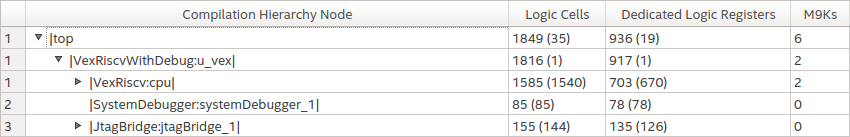
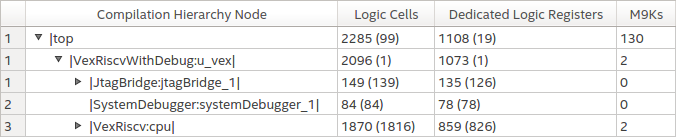
Minor edits.

diff --git a/_drafts/2021-03-06-VexRiscv-and-OpenOCD.md b/_drafts/2021-03-06-VexRiscv-and-OpenOCD.md
@@ -227,7 +227,8 @@ future blog posts... The remainder of this article will deal with the generic op
 # Simulating the Design
 
 A testbench is always helpful to simulate before going to hardware. So for completeness, I've included one here as well.
-While not self-checking, it was useful in tracking down some issue with CPU trap handlers.
+While not self-checking, it was very useful in tracking down [a bug](https://github.com/SpinalHDL/VexRiscv/issues/176) 
+in the VexRiscv DebugPlugin that has since been fixed.
 
 In the `./tb` directory, just type `make`:
 
@@ -253,74 +254,77 @@ as you can see, the leds are indeed toggling in sequence.
 
 # Building the Design for FPGA
 
-For this project, I built an FPGA image for 4 different FPGA boards:
+For this project, I primarily used the Arrow DECA FPGA board. At $37, it's one of the best deals in town!
+Check out my review of this board [here](/2021/04/23/Arrow-DECA-FPGA-board.html).
+
+In addition to the Arrow DECA, I also have project files for 3 other boards:
 
 * the very old, barebones, but still useful, EP2C5T144 board with an Intel Cyclone II EP2C5 FPGA
 * the official Intel Max 10 Development board with a large Max10 10M50 FPGA
-* the featureful Arrow DECA board, with the same Max10 10M50 FPGA
 * the Colorlight i5 with a Lattice ECP5-25 FPGA
 
 You can find the configuration files for each of these boards [here XXXX](XXXX).
 
-As I write this, the Arrow DECA board is priced at $37. An amazing deal, but probably an end-of-life
-fire sale. For hobby purposes, there's no difference between brand new or end-of-life: it's the features
-that counts!
-
 The example design has the following external IOs:
 
 * `clk`: an external clock input of preferably 50MHz. The design doesn't use any PLL to create a different clock.
-* `led0`, `led1`, `led2: the CPU will toggle these LEDs in sequence. 
+* `led0`, `led1`, `led2`: the CPU will toggle these LEDs in sequence. 
 * `button`: when pressed, the LEDs toggling sequence doubles in speed
 * `jtag_tck`, `jtag_tms`, `jtag_tdi`, `jtag_tdo`: the generic JTAG interface
 
-For all 4 boards, the IOs have been assigned as needed. All that's left is to compile the design to 
-a bitstream, but I've also provided ready-made bitstreams.
+In addition to the project files, I've also provided ready-made bitstream so you can try things out right away.
 
 # Debug Logic Resource Cost
 
 Adding debug logic is not free, but the cost is very reasonable.
 
-On the Intel Max 10 FPGA, resource usage for the complete design with JTAG debug enabled is 1849 logic cells and 936 flip-flops.
+On the Intel Max 10 FPGA, resource usage for the complete design with JTAG debug enabled is 2285 logic cells and 1108 flip-flops.
 
 ![Quartus Resource Usage with JTAG Enabled](/assets/vexriscv_ocd/resource_usage_with_jtag_enabled.png)
 
 When the JTAG IO input pins are strapped to constant value, and TDO is left dangling, Quartus does an excellent
-job at optimizing all debug logic out, and the resource usage drops to 1534 logic cells and 679 flip-flops.
+job at optimizing all debug logic out, and the resource usage drops to 1952 logic cells and 1108 flip-flops.
 
 ![Quartus Resource Usage with JTAG IO Strapped](/assets/vexriscv_ocd/resource_usage_with_jtag_strapped.png)
 
-In cause you were wondering: when using a Verilog file of a VexRiscv configuration that 
-doesn't have DebugPlugin included at all, the resource usage drops another 10 logic cells to 1524. 
+The resource usage for a VexRiscv CPU, with or without DebugPlugin, is heavily dependent on which features
+are enabled. A good example is CSR related functionality (these are special register inside a RISC-V
+CPU to deal with interrupts, traps, instruction counters etc.) The logic behind these is often straightforward,
+but they can consume a lot of FFs. The CPU I'm using here has trap exception support enabled, and that 
+costs more than 100 FFs. 
 
-Quartus is pretty good to eliminating dead logic!
-
-![Quartus Resource Usage without Debug Logic Included](/assets/vexriscv_ocd/resource_usage_without_jtag_included.png)
-
-Conclusion: adding debug logic increase the resource usage by 20%. That seems high, but it's more a testament to
-how small the VexRiscv really is. And keep in mind that this is for a low performance VexRiscv configuration. If
-you were to enable the HW multiplier and divider, the barrel shifter
-
-# Updating the program RAM contents
-
+Conclusion: adding debug logic increases the resource usage around 15%. That seems high, but it's more a testament to
+how small the VexRiscv really is, especially a low performance configuration like this one. If you were to enable the 
+HW multiplier and divider, the barrel shifter, instruction and data caches, MMU, the percentage of the debug related
+logic would go descent into low single digits.
 
 # Connecting to the JTAG TAP of the FPGA
 
-Before we can do SW debugging, we first need to be able to access the JTAG TAP from our PC.
+It's now time to set everything up for SW debugging on a live FPGA system.
+
+We first need to be able to access the debug JTAG TAP from our PC.
 
 There are 3 things that need to be in place:
 
-1. an OpenOCD configuration file that loads the right JTAG dongle driver
 1. the JTAG pins of the dongle must be connected to the right FPGA pins
+
+    Do that first, while the FPGA board is powered off.
+
 1. the FPGA must have the bitstream loaded with the JTAG TAP logic
 
-I personally dread step number 1 the most: when everything has been set up correctly, you don't need to
+    Do that next. If you're using my example design, you should see 3 LEDs blinking
+    one after the other.
+
+1. an OpenOCD configuration file that loads the right JTAG dongle driver
+
+I personally dread step number 3 the most: when everything has been set up correctly, you don't need to
 use `sudo` when running OpenOCD, and hopefully you find the right driver, but it's never a sure thing.
 
 Either way, I wrote a blog post in the past about 
 [loading a Xilinx Spartan 6 bitstream with OpenOCD ](2019/09/15/Loading-a-Spartan-6-bitstream-with-openocd.html)
 that explains the process.
 
-In my case, I'm using a Xilinx Digilent clone. The magic incantation was the following:
+In my case, I'm using a Xilinx Digilent JTAG SMT2 clone. This is the magic incantation:
 
 ```sh
 /opt/openocd-vex/bin/openocd \ 
@@ -343,8 +347,7 @@ Warn : AUTO auto0.tap - use "jtag newtap auto0 tap -irlen 4 -expected-id 0x10001
 Warn : gdb services need one or more targets defined
 ```
 
-OpenOCD found a JTAG device with an IDCODE of 0x10001fff. I didn't specify any IDCODE so SpinalHDL chose that
-value for me.
+OpenOCD found a JTAG device with an IDCODE of 0x10001fff. SpinalHDL choose that value for me.
 
 Let's now also load the VexRiscv-specific configuration file:
 
@@ -372,10 +375,11 @@ Info : Listening on port 6666 for tcl connections
 Info : Listening on port 4444 for telnet connections
 ```
 
-Success!
+Success! 
 
-Not only were we able to connect to the JTAG TAP, we were able to connect to the CPU and we were able to halt it.
-And, indeed, on your FPGA development board, you should have noticed that the LEDs are not blinking anymore.
+We were able to connect to the JTAG TAP and we were able to connect to the CPU and we were able to halt it.
+On your FPGA development board, you should have noticed that the LEDs are not blinking anymore.
+
 OpenOCD also opened a GDB server on port 3333. Soon, we'll be executing debug instructions to the CPU from
 GDB through this TCP/IP port to OpenOCD which will translate them instead JTAG commands.
 
